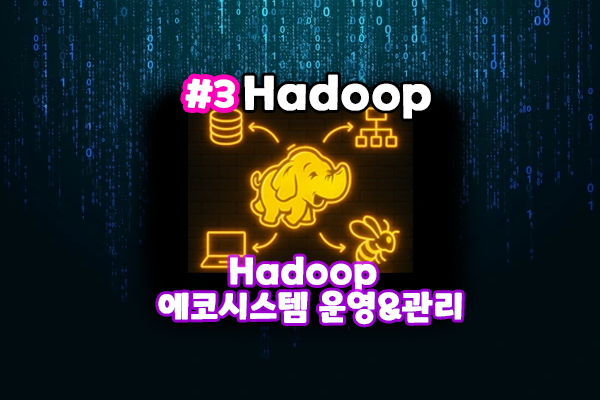
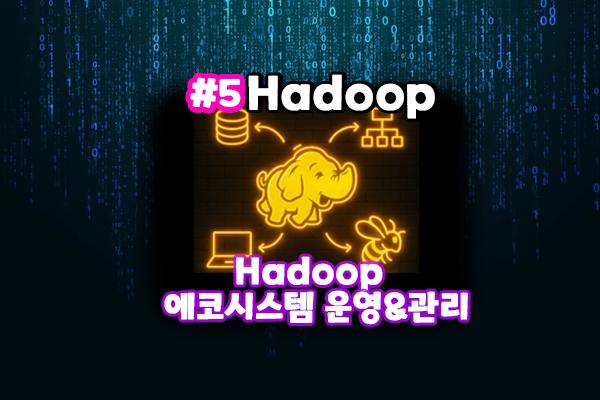
25.06.02 하둡 공부 포스팅

diff --git a/_pages/📖 개인 공부/👉 Apache Hadoop/3. YARN(Yet Another Resource Negotiator) 기본 이론.md b/_pages/📖 개인 공부/👉 Apache Hadoop/3. YARN(Yet Another Resource Negotiator) 기본 이론.md
@@ -1,0 +1,70 @@
+---
+title: "📘 하둡 에코시스템과 운영 및 관리"
+tags:
+    - Apache
+    - Hadoop
+    - Study
+date: "2025-03-16"
+thumbnail: "/assets/img/thumbnail/hadoop_basic_5.png"
+bookmark: true
+---
+
+저번 포스팅에서는, 하둡의 핵심을 공부하였습니다.
+
+[📘 분산 시스템의 이해와 하둡의 등장 배경](https://jeondaehong.github.io/%F0%9F%93%96%20%EA%B0%9C%EC%9D%B8%20%EA%B3%B5%EB%B6%80/%F0%9F%91%89%20Apache%20Hadoop/1.%20%EB%B6%84%EC%82%B0%20%EC%8B%9C%EC%8A%A4%ED%85%9C%EC%9D%98%20%EC%9D%B4%ED%95%B4%EC%99%80%20%ED%95%98%EB%91%A1%EC%9D%98%20%EB%93%B1%EC%9E%A5%20%EB%B0%B0%EA%B2%BD.html)
+[📘 하둡의 핵심 구성요소와 이론](https://jeondaehong.github.io/%F0%9F%93%96%20%EA%B0%9C%EC%9D%B8%20%EA%B3%B5%EB%B6%80/%F0%9F%91%89%20Apache%20Hadoop/2.%20%ED%95%98%EB%91%A1%EC%9D%98%20%ED%95%B5%EC%8B%AC%20%EA%B5%AC%EC%84%B1%EC%9A%94%EC%86%8C%EC%99%80%20%EC%8B%A4%EC%8A%B5%20%EA%B3%BC%EC%A0%95.html)
+
+<br>
+
+# 🐘 1. YARN
+
+## 🐘 1.1. YARN 이란
+---
+
+## 🐘 1.2. YARN 아키텍처
+---
+
+### 🐘 1.2.1. 기본 아키텍처
+
+### 🐘 1.2.2. Resource Mananger
+
+### 🐘 1.2.3. Node Manager
+
+
+## 🐘 1.3. YARN 의 작업 흐름
+---
+
+### 🐘 1.3.1. High Level Workflow
+
+### 🐘 1.3.2. Application 실행 요청
+
+### 🐘 1.3.3. Application Master 실행 요청
+
+### 🐘 1.3.4. Application Master 등록
+
+### 🐘 1.3.5. 컨테이너 실행
+
+### 🐘 1.3.6. Application Master 종료
+
+### 🐘 1.3.7. Auxiliary Service
+
+<br>
+<br>
+<div align="center">◈</div>
+<br>
+
+# 🐘 2. YARN TimeLine Service V2
+
+<br>
+<br>
+<div align="center">◈</div>
+<br>
+
+# ✏ 결론
+
+<br>
+<br>
+<div align="center">◈</div>
+<br>
+
+# 📚 공부 참고 자료

diff --git a/_pages/📖 개인 공부/👉 Apache Hadoop/4. Map Reduce 기본 이론.md b/_pages/📖 개인 공부/👉 Apache Hadoop/4. Map Reduce 기본 이론.md
@@ -1,0 +1,42 @@
+---
+title: "📘 하둡 에코시스템과 운영 및 관리"
+tags:
+    - Apache
+    - Hadoop
+    - Study
+date: "2025-03-16"
+thumbnail: "/assets/img/thumbnail/hadoop_basic_6.png"
+bookmark: true
+---
+
+저번 포스팅에서는, 하둡의 핵심을 공부하였습니다.
+
+<br>
+
+# 🐘 1. Map Reduce
+
+## 🐘 1.1. Map Reduce 란
+---
+
+## 🐘 1.2. Map Reduce 기능과 프로그래밍
+---
+
+## 🐘 1.3. Map Reduce 의 한계
+---
+
+## 🐘 1.4. Cascading
+---
+
+<br>
+<br>
+<div align="center">◈</div>
+<br>
+
+# ✏ 결론
+
+<br>
+<br>
+<div align="center">◈</div>
+<br>
+
+# 📚 공부 참고 자료
